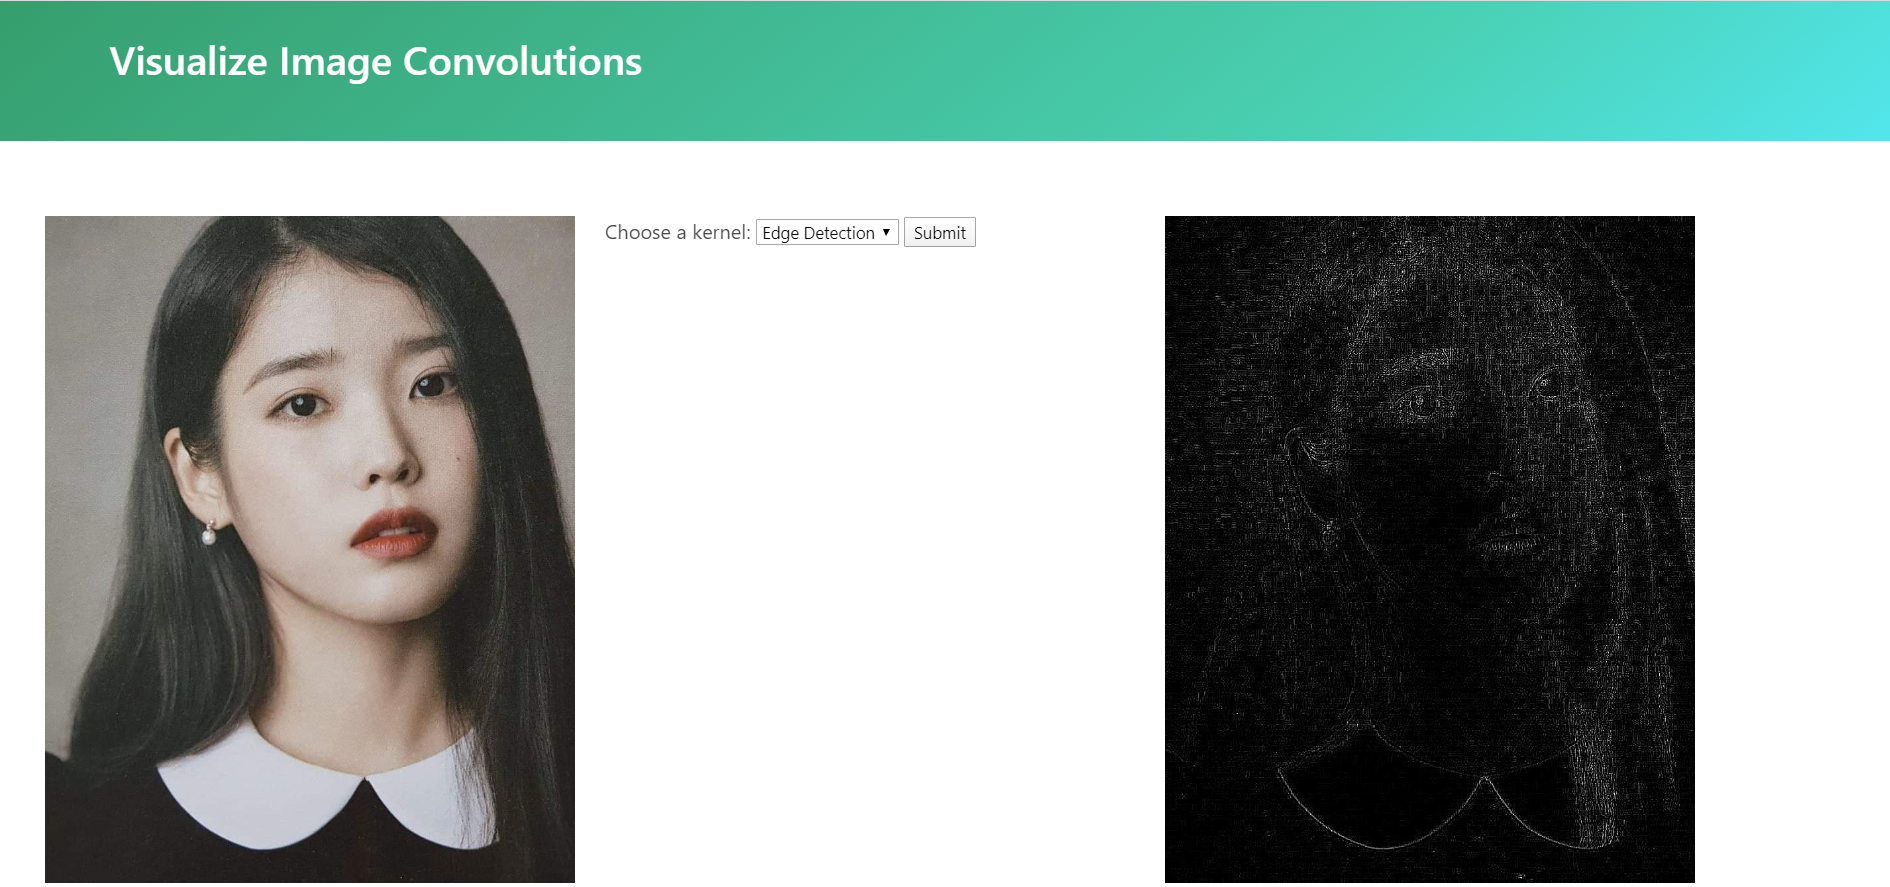
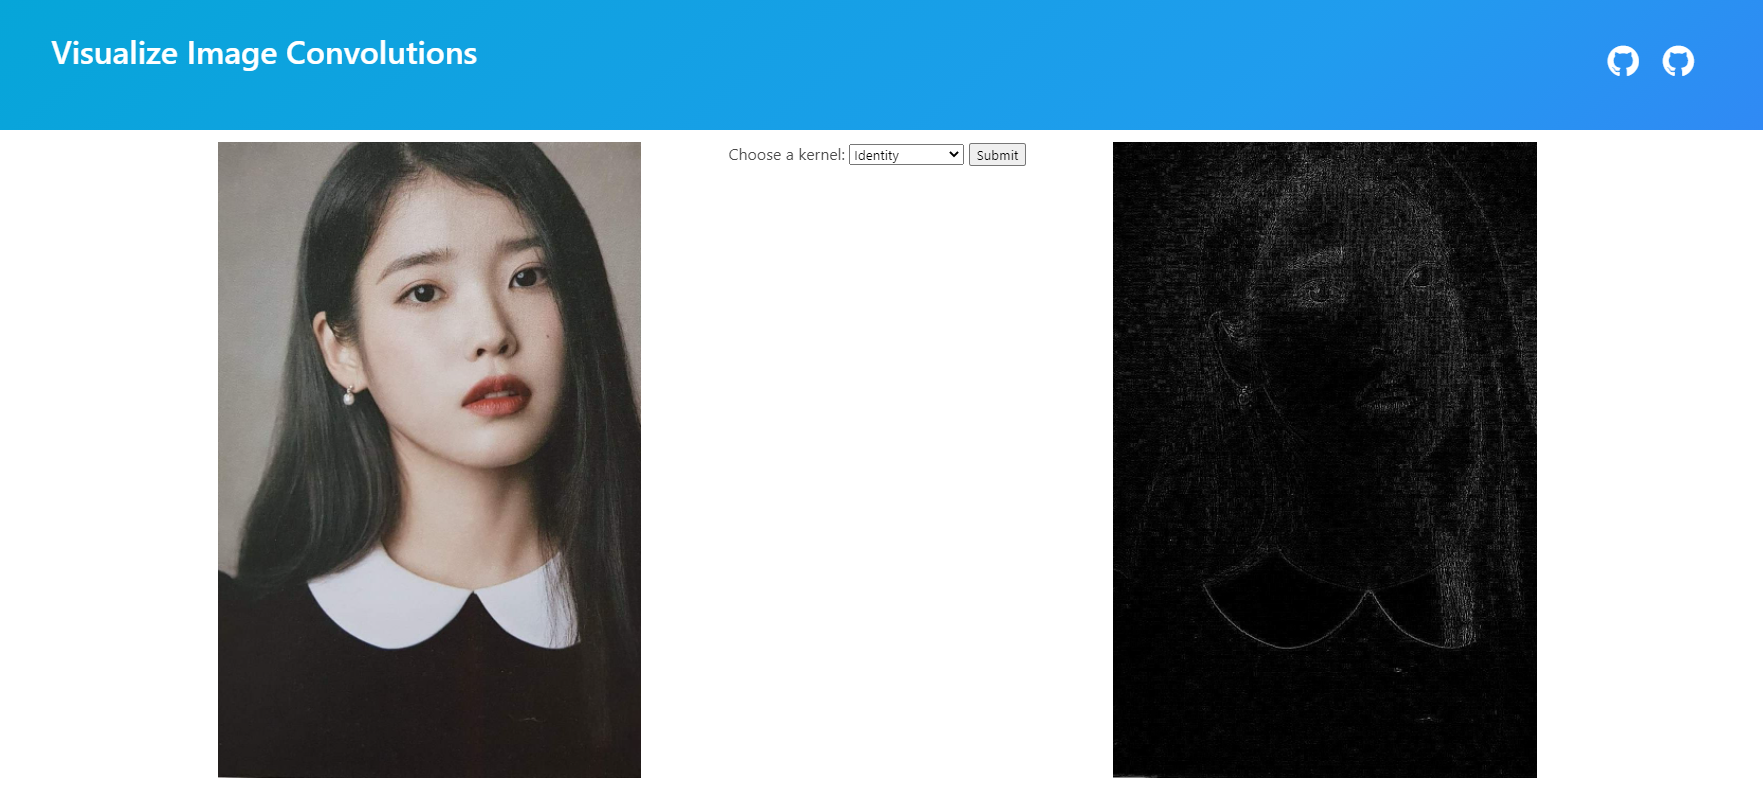
Minor styling changes and update for example image

diff --git a/templates/output.html b/templates/output.html
@@ -11,7 +11,7 @@
 </head>
 
 <body style="height: 100vh;">
-    <section class="hero is-info is-bold" style="height: 20%;">
+    <section class="hero is-info is-bold" style="height: 15%;">
         <div class="hero-body" style="display: flex; justify-content: space-around;">
             <div class="container" style="margin: 0;">
                 <h1 class="title">
@@ -24,7 +24,7 @@
             </div>
         </div>
     </section>
-    <section class="section" style="height: 80%; display: flex; justify-content: center; padding: 0;">
+    <section class="section" style="height: 85%; display: flex; justify-content: center; padding: 0;">
         <div class="container" style="display: inline-flex;">
             <div class="column is-one-third">
                 <figure class="image is-1by2">

diff --git a/templates/main.html b/templates/main.html
@@ -11,7 +11,7 @@
 </head>
 
 <body style="height: 100vh;">
-    <section class="hero is-info is-bold" style="height: 20%;">
+    <section class="hero is-info is-bold" style="height: 15%;">
         <div class="hero-body" style="display: flex; justify-content: space-around;">
             <div class="container" style="margin: 0;">
                 <h1 class="title">
@@ -24,7 +24,7 @@
             </div>
         </div>
     </section>
-    <section class="section" style="height: 80%; display: flex; justify-content: center; padding: 0">
+    <section class="section" style="height: 85%; display: flex; justify-content: center; padding: 0">
         <div class="container" style="display: inline-flex;">
             <div class="column is-one-third">
                 <figure class="image is-1by2">
